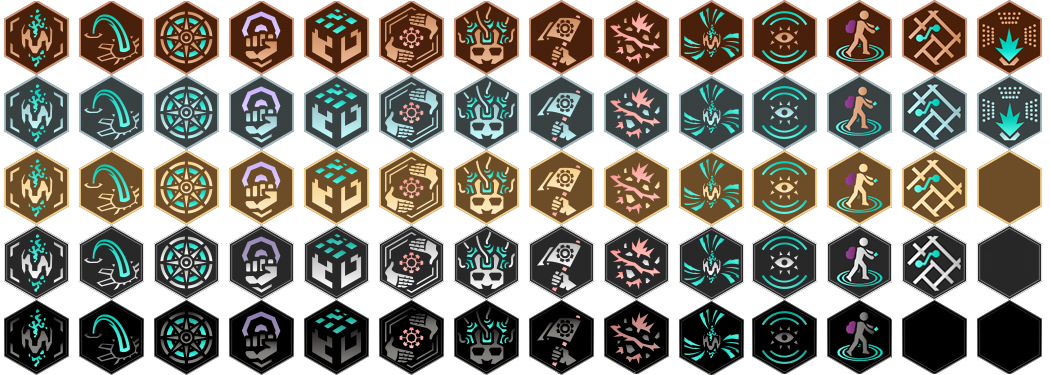
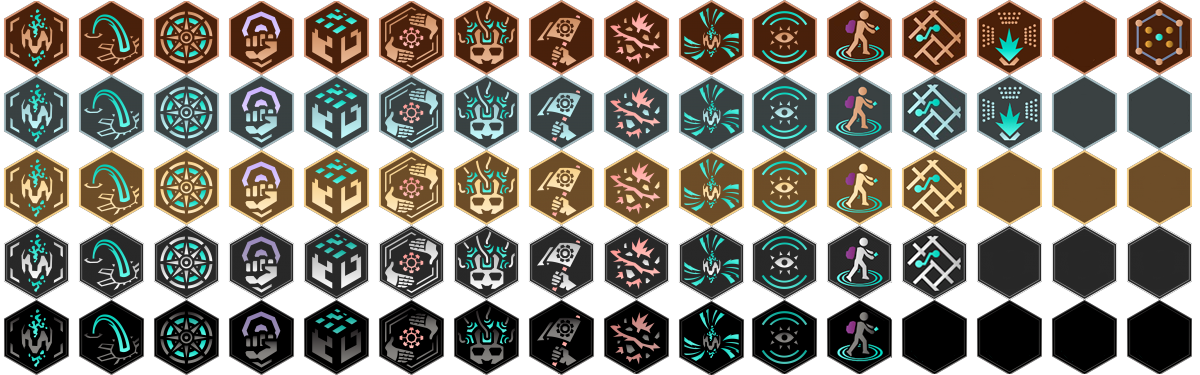
Adding swatch for Translator and Recruiter

diff --git a/resources/css/style.less b/resources/css/style.less
@@ -303,6 +303,12 @@ table {
 .badge-icon-75.specops.platinum { background-position: -900px -225px; }
 .badge-icon-75.specops.onyx     { background-position: -900px -300px; }
 
+.badge-icon-75.translator.bronze   { background-position: -1125px 0px; }
+.badge-icon-75.translator.silver   { background-position: -1125px -75px; }
+.badge-icon-75.translator.gold     { background-position: -1125px -150px; }
+.badge-icon-75.translator.platinum { background-position: -1125px -225px; }
+.badge-icon-75.translator.onyx     { background-position: -1125px -300px; }
+
 .badge-icon-75.trekker.bronze   { background-position: -825px 0px; }
 .badge-icon-75.trekker.silver   { background-position: -825px -75px; }
 .badge-icon-75.trekker.gold     { background-position: -825px -150px; }
